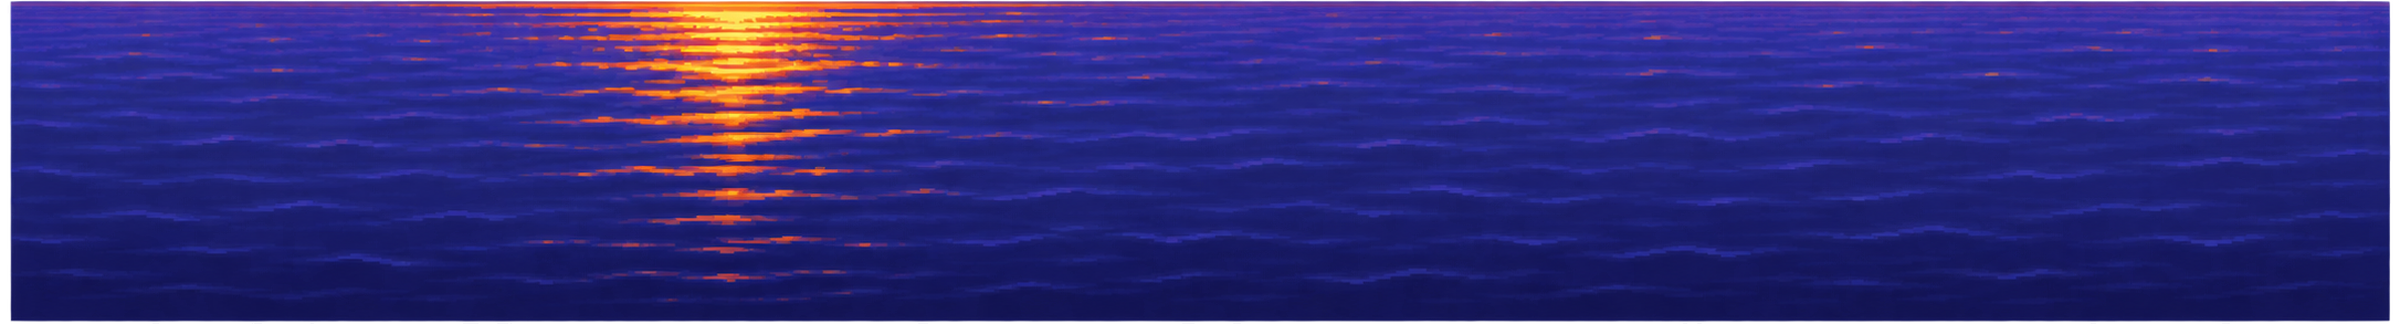
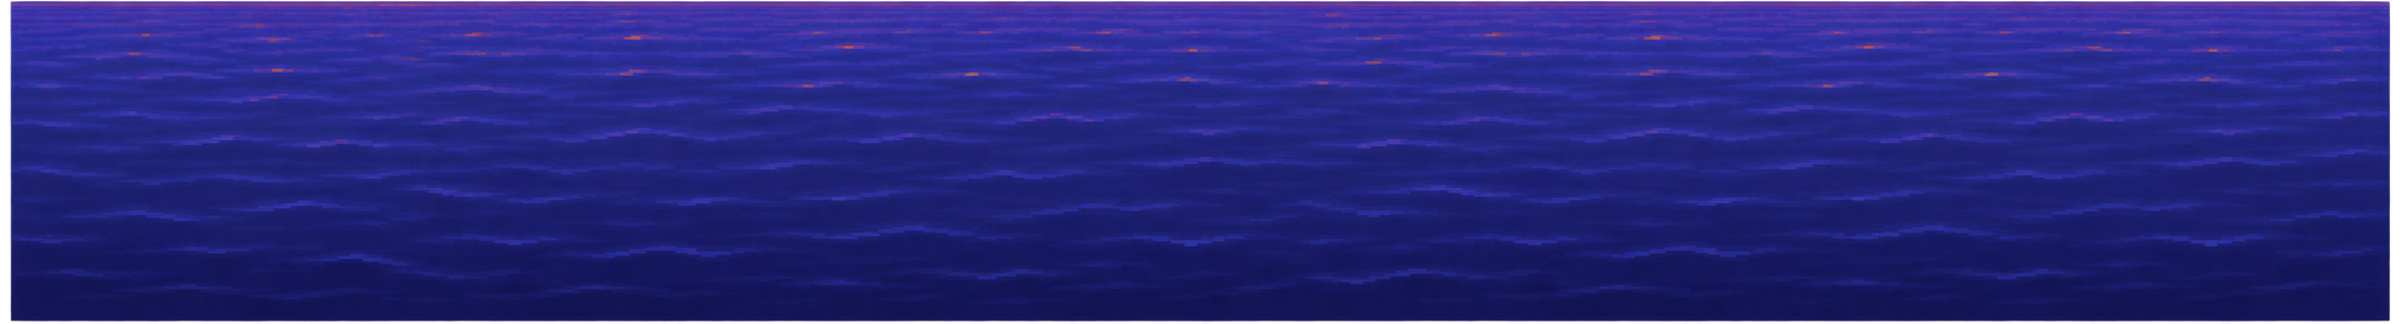
Lock the sun, its reflection and the town on the title screen
They no longer pan; the sky, clouds, mountains and sea still do. The
sun keeps its glow pulse but no longer changes size. The sea texture
had its own sun reflection baked in, which would have slid away from
the locked one, so the build script now paints it out with clean water
from elsewhere in the same image.

Claude-Session: https://claude.ai/code/session_01Wc5yMNhxG9LmuzgQGcUqya

diff --git a/src/render/titleBackdrop.ts b/src/render/titleBackdrop.ts
@@ -16,7 +16,7 @@ const MAX_SHIFT = 400;
 
 type Anim =
   | { type: 'sway'; deg: number; speed: number; phase: number } // rotate around the anchor
-  | { type: 'pulse'; speed: number } // sun glow: alpha 0.9-1.0 and scale 1.0-1.03
+  | { type: 'pulse'; speed: number } // sun glow: alpha 0.9-1.0, size fixed
   | { type: 'bob'; px: number; speed: number } // vertical bob
   | { type: 'frames'; count: number; every: number }; // horizontal sprite strip
 
@@ -36,14 +36,15 @@ interface Layer {
 }
 
 const LAYERS: Layer[] = [
+  // The sun, its reflection and the town are locked in place; the rest of the scene pans around them.
   { file: 'sky', z: 0, x: 960, y: 0, anchor: [0.5, 0], parallax: 0.05 },
   { file: 'clouds_far', z: 1, x: 0, y: 200, anchor: [0, 0], parallax: 0.1, drift: 0.15 },
-  { file: 'sun', z: 2, x: 380, y: 560, anchor: [0.5, 0.5], parallax: 0.1, anim: { type: 'pulse', speed: 0.025 } },
+  { file: 'sun', z: 2, x: 380, y: 560, anchor: [0.5, 0.5], parallax: 0, anim: { type: 'pulse', speed: 0.025 } },
   { file: 'clouds_near', z: 3, x: 0, y: 110, anchor: [0, 0], parallax: 0.2, drift: 0.35 },
   { file: 'mountains', z: 4, x: 960, y: 620, anchor: [0.5, 1], parallax: 0.3 },
-  { file: 'town', z: 5, x: 1440, y: 622, anchor: [0.5, 1], parallax: 0.4 },
+  { file: 'town', z: 5, x: 1440, y: 622, anchor: [0.5, 1], parallax: 0 },
   { file: 'sea', z: 6, x: 960, y: 620, anchor: [0.5, 0], parallax: 0.5 },
-  { file: 'sea_glitter', z: 6.5, x: 380, y: 620, anchor: [0.5, 0], parallax: 0.5, anim: { type: 'frames', count: 4, every: 9 } },
+  { file: 'sea_glitter', z: 6.5, x: 380, y: 620, anchor: [0.5, 0], parallax: 0, anim: { type: 'frames', count: 4, every: 9 } },
   // The frame layers are exactly canvas-wide (no slack to pan), so they stay locked.
   { file: 'balustrade', z: 7, x: 0, y: 650, anchor: [0, 0], parallax: 0 },
   { file: 'floor', z: 8, x: 0, y: 830, anchor: [0, 0], parallax: 0 },
@@ -99,7 +100,6 @@ function drawLayer(ctx: CanvasRenderingContext2D, l: Layer, f: number, pan: numb
   else if (a?.type === 'pulse') {
     const t = 0.5 + 0.5 * Math.sin(f * a.speed);
     ctx.globalAlpha = 0.9 + 0.1 * t;
-    ctx.scale(1 + 0.03 * t, 1 + 0.03 * t);
   } else if (a?.type === 'frames') sx = (Math.floor(f / a.every) % a.count) * fw;
   ctx.drawImage(img, sx, 0, fw, h, -l.anchor[0] * fw, -l.anchor[1] * h, fw, h);
   ctx.restore();

diff --git a/tools/build_title_layers.py b/tools/build_title_layers.py
@@ -61,6 +61,19 @@ def seamless(im: Image.Image, w: int, overlap: int) -> Image.Image:
     return Image.fromarray(a[:, :w].round().astype(np.uint8))
 
 
+def remove_reflection(im: Image.Image, x0: int, x1: int, src: int, feather: int = 60) -> Image.Image:
+    """Cover columns x0..x1 with clean water copied from `src`, so the sun's reflection can be its own
+    (locked) layer while the sea pans."""
+    a = np.array(im).astype(np.float32)
+    patch = a[:, src:src + (x1 - x0)]
+    w = np.ones(x1 - x0)
+    ramp = np.linspace(0, 1, feather)
+    w[:feather], w[-feather:] = ramp, ramp[::-1]
+    w = w[None, :, None]
+    a[:, x0:x1] = a[:, x0:x1] * (1 - w) + patch * w
+    return Image.fromarray(a.round().astype(np.uint8))
+
+
 def main(src_dir: str):
     os.makedirs(OUT, exist_ok=True)
     L = {k: load(src_dir, n) for k, n in SOURCES.items()}
@@ -73,7 +86,7 @@ def main(src_dir: str):
         'mountains': fit_w(content(L['mountains'], x=False), 2400),
         # At canvas scale the town would tower over the scene; keep it at the reference image's size.
         'town': fit_h(content(L['town']), 240),
-        'sea': fit_w(content(L['sea'], x=False), 2400),
+        'sea': remove_reflection(fit_w(content(L['sea'], x=False), 2400), 380, 1320, 1400),
         'balustrade': fit_w(content(L['balustrade']), 1920),
         'floor': L['floor'].resize((1920, 270), Image.LANCZOS),
         # Same 1672x941 framing as the reference title image, so they scale straight to 1920x1080.
